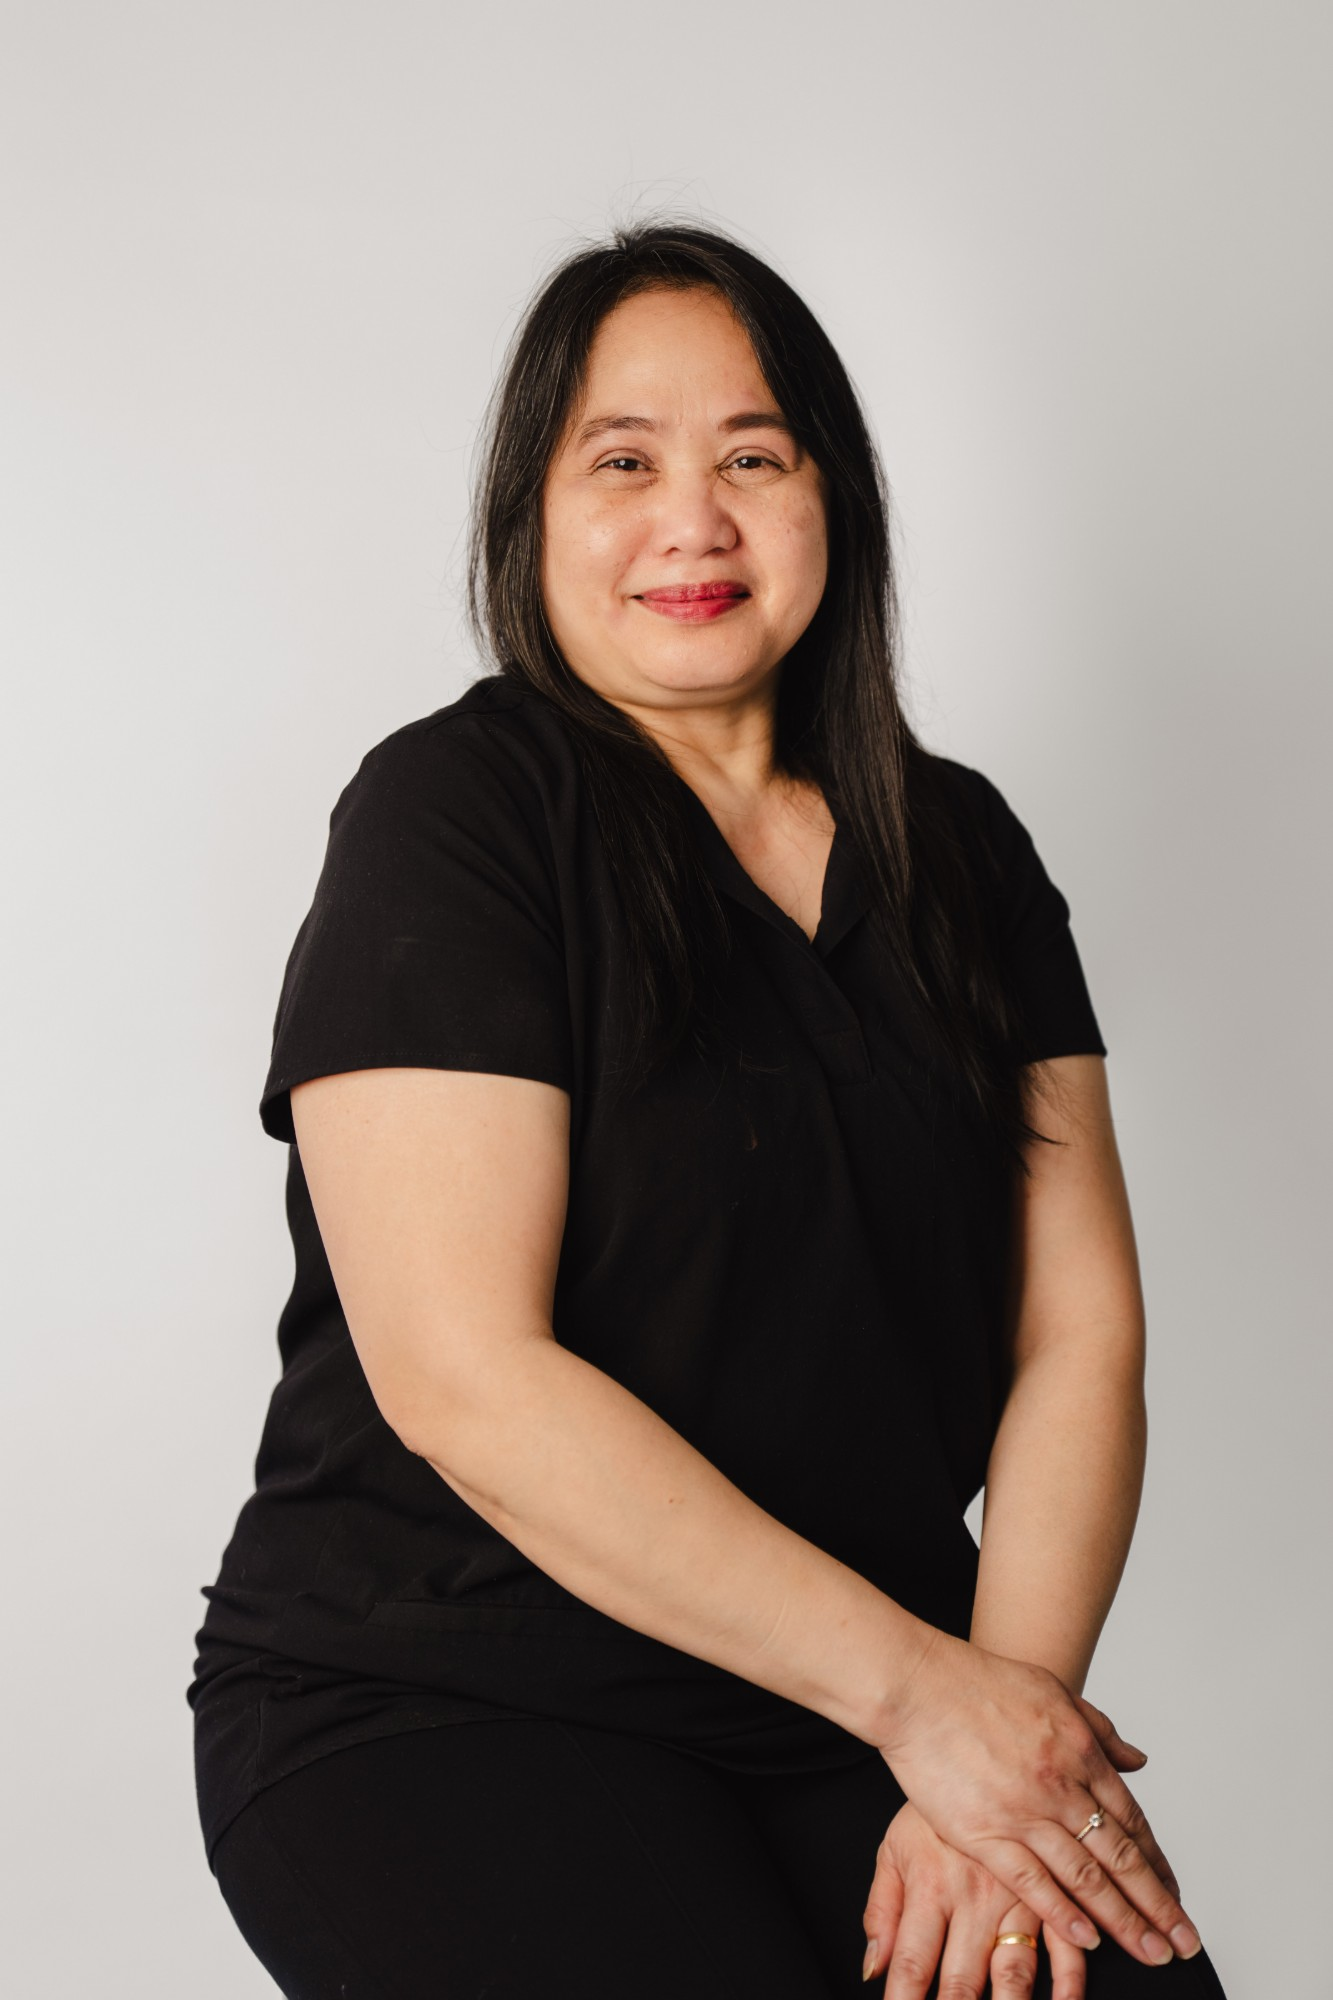
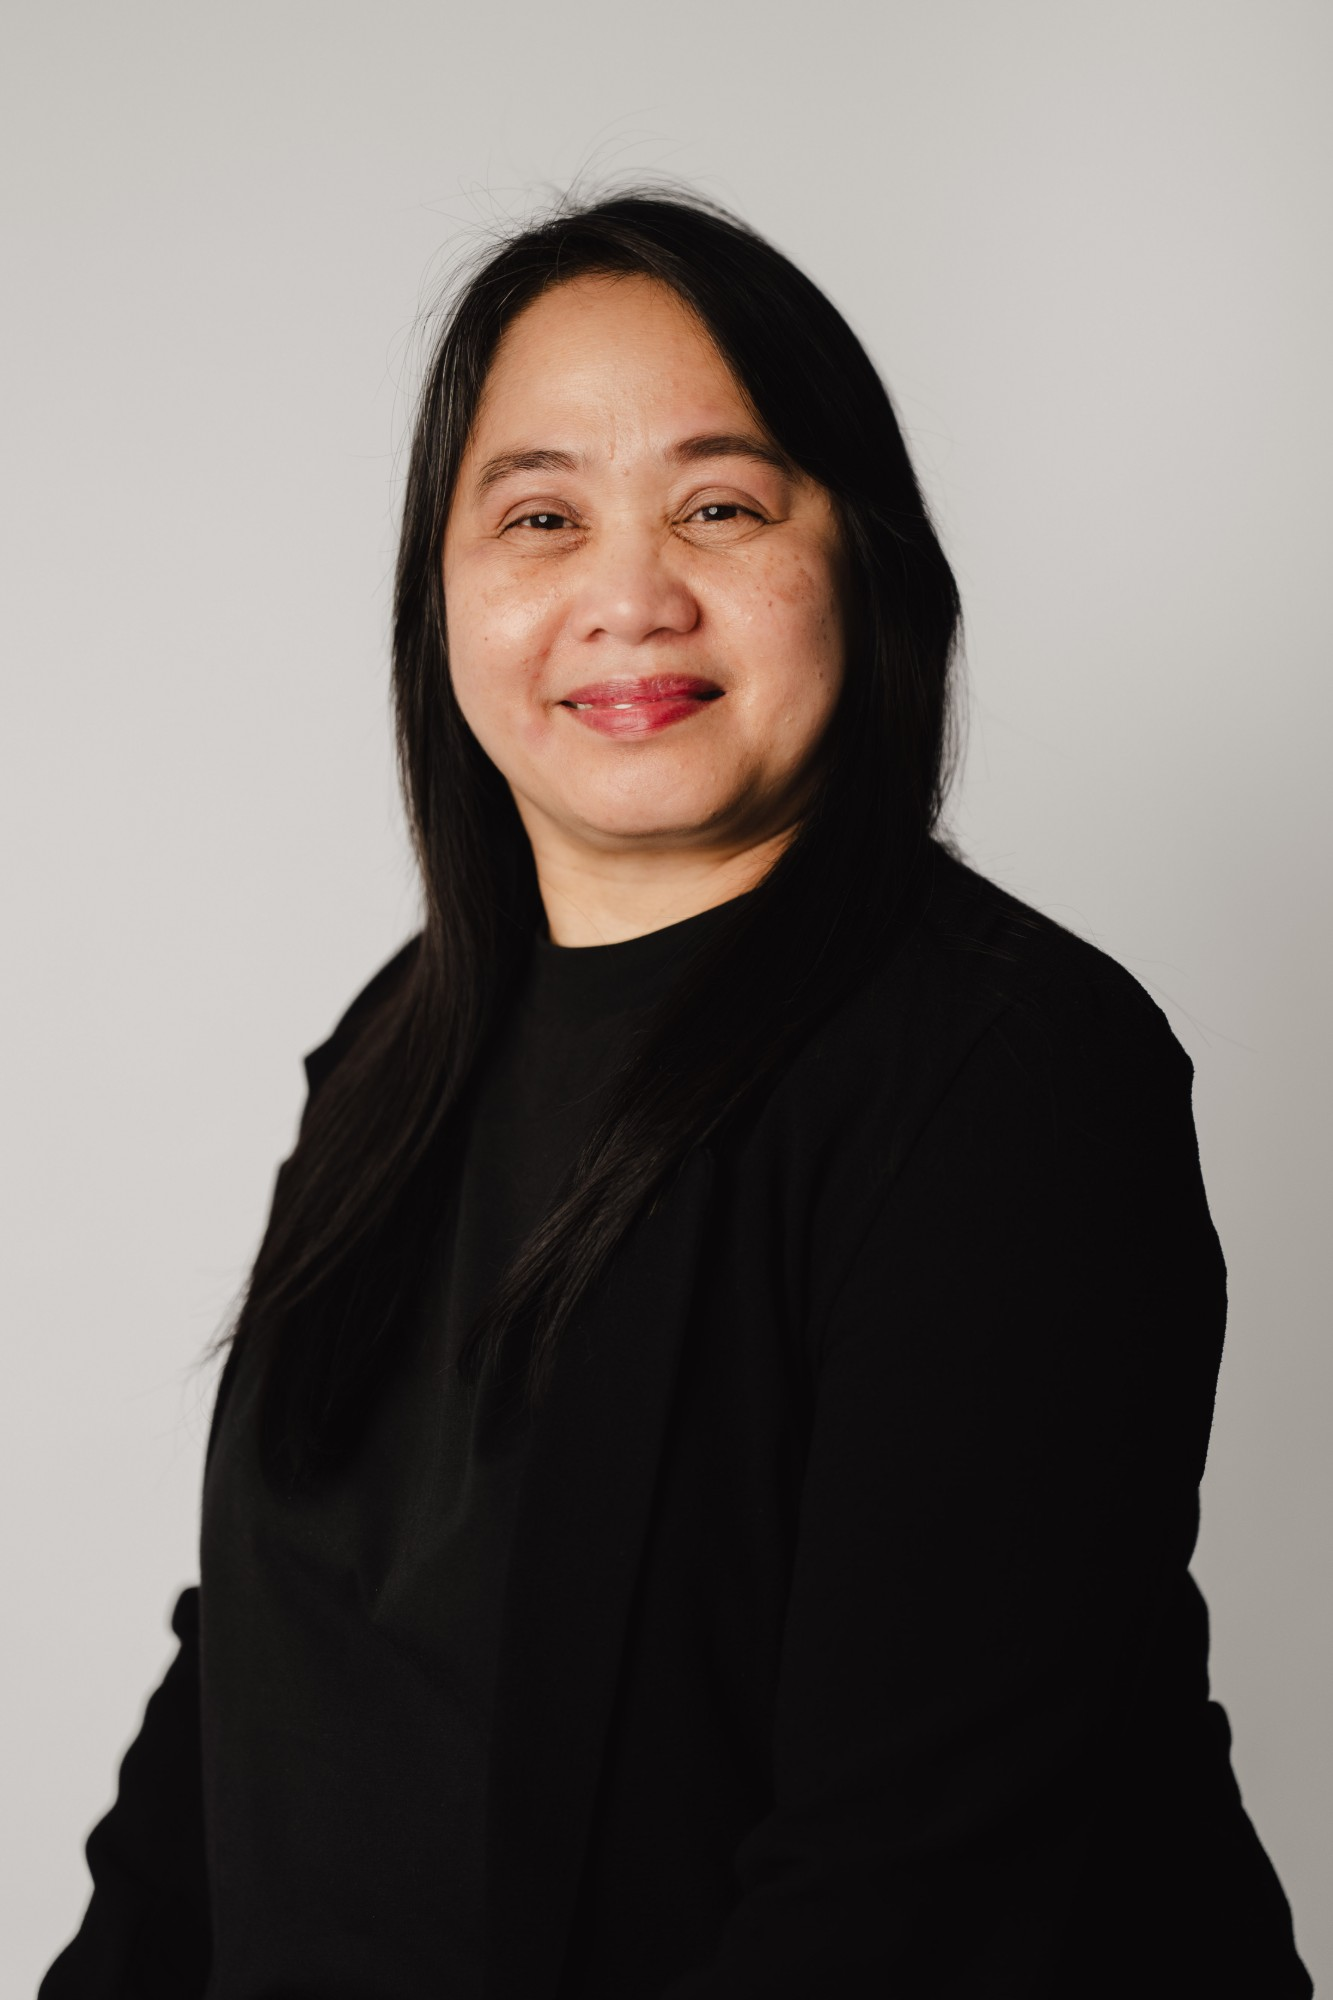
Update Nurse Pauline's photo and add faded backdrop

diff --git a/site/nurse-pauline.html b/site/nurse-pauline.html
@@ -78,7 +78,10 @@
 </div>
 
 <!-- PROFILE -->
-<section class="section bg-white">
+<section class="section bg-white profile-faded">
+  <div class="profile-faded-bg" aria-hidden="true">
+    <img src="assets/images/nurse-pauline-bg-1.jpg" alt="">
+  </div>
   <div class="container">
     <div class="photo-split">
       <div class="photo-split-img fade-in">
